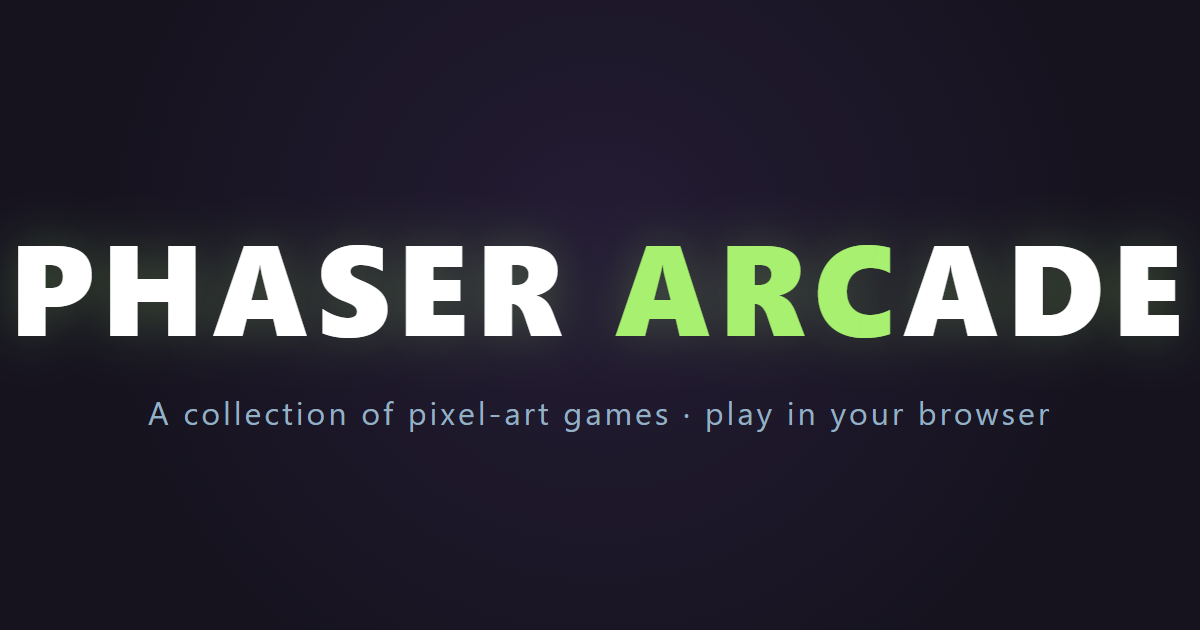
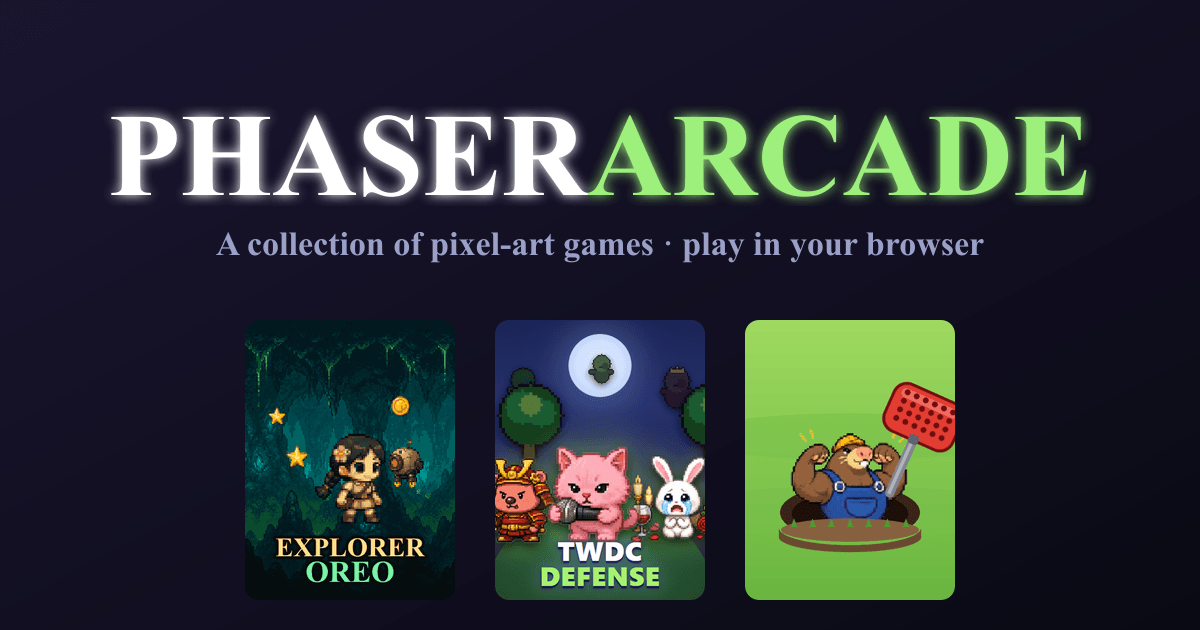
feat(cave-collector): game cover + OG image; refresh hub OG
- cover.png (360x480, 3:4) composed from the real game art — hero + sentry-bot +
  star/coin over the parallax cave, with the gold/green "EXPLORER OREO" pixel logo.
  The hub auto-picks it up (cover.png priority), so the card now shows real art.
- public/og-cover.png (1200x630) landscape variant for social sharing; index.html
  gets og:/twitter: meta pointing at it (absolute deployed URL).
- Refreshed the collection og-hub.png (1200x630): "PHASER ARCADE" in Pixelify Sans
  with glow + the three game covers as rounded thumbnails (was title-only text).
- All PNGs quantized to a palette (cover 29KB, og-cover 120KB, og-hub 100KB).

Verified: hub rebuild inlines the new cover on the Explorer Oreo card; og-hub
copies to dist.

diff --git a/games/cave-collector/index.html b/games/cave-collector/index.html
@@ -7,6 +7,28 @@
       content="width=device-width, initial-scale=1.0, maximum-scale=1.0, user-scalable=no"
     />
     <title>Explorer Oreo</title>
+    <meta
+      name="description"
+      content="A pixel-art cave platformer — run, jump, grab the stars, dodge the bots, reach the door."
+    />
+    <!-- Open Graph / Twitter card (absolute URLs for social crawlers). -->
+    <meta property="og:type" content="website" />
+    <meta property="og:title" content="Explorer Oreo" />
+    <meta
+      property="og:description"
+      content="A pixel-art cave platformer — run, jump, grab the stars, dodge the bots, reach the door."
+    />
+    <meta
+      property="og:image"
+      content="https://dongquoctien.github.io/phaser/cave-collector/og-cover.png"
+    />
+    <meta property="og:url" content="https://dongquoctien.github.io/phaser/cave-collector/" />
+    <meta name="twitter:card" content="summary_large_image" />
+    <meta name="twitter:title" content="Explorer Oreo" />
+    <meta
+      name="twitter:image"
+      content="https://dongquoctien.github.io/phaser/cave-collector/og-cover.png"
+    />
     <!-- Inline favicon (1x1) so the browser doesn't 404 on /favicon.ico. -->
     <link
       rel="icon"